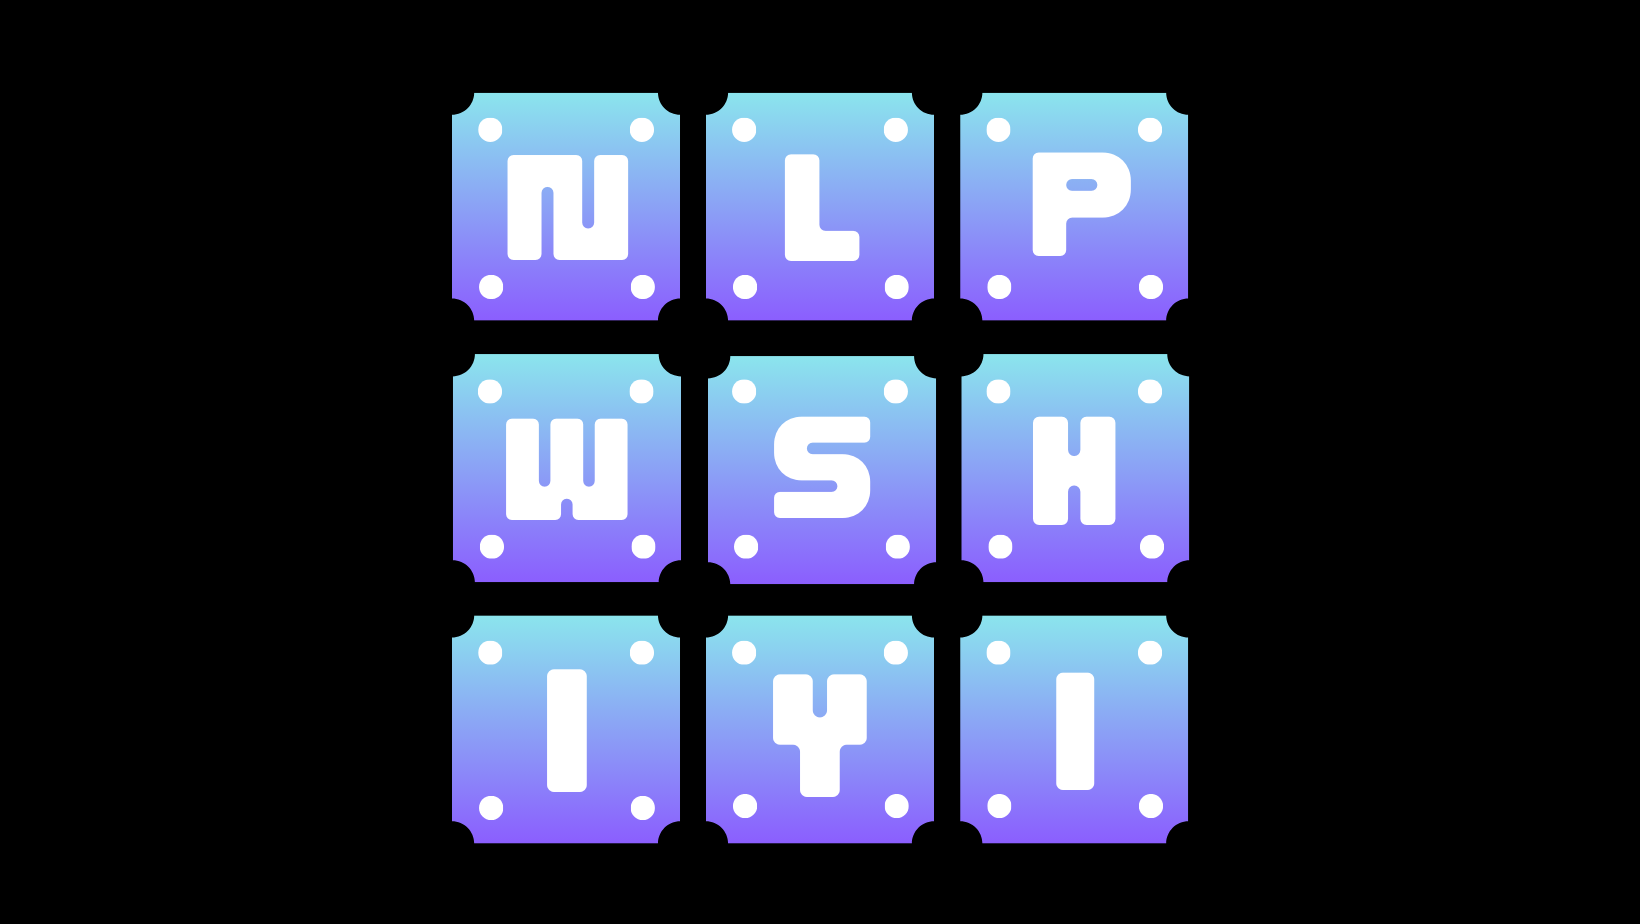
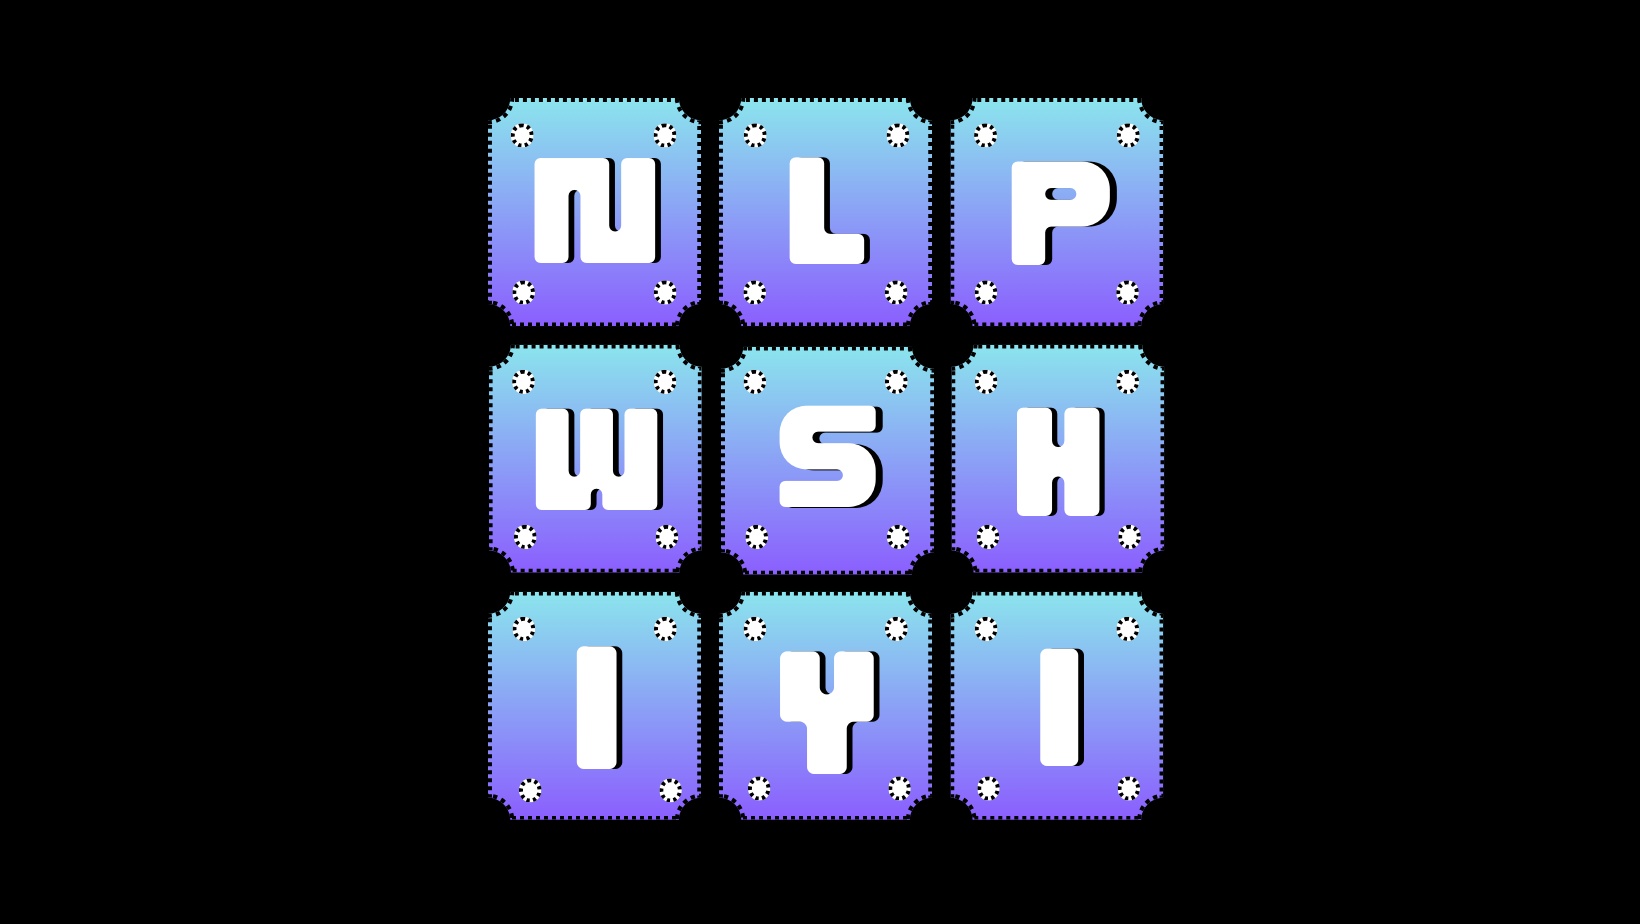
Deploying to main from  @ 3b16c6b58aeac6367cc86f3bc6c4f4b065f37cce 🚀

Changed region(s): [[0.2488, 0.0909, 0.7463, 0.9394], [0.4976, 0.1818, 0.5287, 0.303]]

diff --git a/index.html b/index.html
@@ -1,4 +1,4 @@
-<!doctype html> <html lang=en > <meta charset=UTF-8 > <meta name=viewport  content="width=device-width, initial-scale=1"> <link rel=stylesheet  href="/nlpwme/libs/highlight/styles/github.min.css"> <link rel=stylesheet  href="/nlpwme/css/franklin.css"> <link rel=stylesheet  href="https://fonts.googleapis.com/css?family=Source+Sans+Pro:400,700,400italic|Source+Code+Pro:400,700" type="text/css"> <link rel=stylesheet  href="/nlpwme/css/font-awesome.min.css"> <link rel=stylesheet  href="/nlpwme/css/celeste.min.css"> <link rel=icon  type="image/png" sizes=200x200  href="/nlpwme/assets/robot.png"> <link rel=icon  type="image/png" sizes=152x152  href="/nlpwme/assets/robot_smaller_152x152.png"> <link rel=icon  type="image/x-icon" sizes=64x64  href="/nlpwme/assets/robot_smaller_64x64.png"> <link rel=icon  type="image/x-icon" sizes=32x32  href="/nlpwme/assets/robot_smaller_32x32.png"> <link rel=icon  type="image/png" sizes=64x64  href="/nlpwme/assets/robot_smaller_64x64.png"> <link rel=icon  type="image/png" sizes=32x32  href="/nlpwme/assets/robot_smaller_32x32.png"> <title>NLPwShiyi - Natural Language Processing with Shiyi</title> <nav id=navbar  class=navigation  role=navigation > <input id=toggle1  type=checkbox  /> <label class=hamburger1  for=toggle1 > <div class=top ></div> <div class=meat ></div> <div class=bottom ></div> </label> <nav class="topnav mx-auto" id=myTopnav > <div class=dropdown > <button class=dropbtn >Comp Ling <i class="fa fa-caret-down"></i> </button> <div class=dropdown-content > <a href="/nlpwme/modules/1b-info-theory">Information Theory</a> <a href="/nlpwme/modules/1c-noisy-channel-model">The Noisy Channel Model</a> <a href="/nlpwme/modules/1d-finite-automata">FSAs and FSTs</a> <a href="/nlpwme/modules/1e-mutual-info">Mutual Information</a> <a href="/nlpwme/modules/1f-cky-algorithm">CKY Algorithm</a> <a href="/nlpwme/modules/1g-viterbi">Viterbi Algorithm</a> <a href="/nlpwme/modules/2b-markov-processes">Markov Processes</a> <a href="/nlpwme/modules/1h-semantics">Logic and Problem Solving</a> <a href="/nlpwme/modules/1j-bayesian">Bayesian Inference</a> </div> </div> <div class=dropdown > <button class=dropbtn  >ML / DL <i class="fa fa-caret-down"></i> </button> <div class=dropdown-content > <a href="/nlpwme/modules/2e-jax">Jacobian Matrices Derivation</a> <a href="/nlpwme/modules/2d-automatic-differentiation">Automatic Differentiation</a> <a href="/nlpwme/modules/2f-loss-functions">Stochastic GD</a> <a href="/nlpwme/modules/2c-word2vec">Word2Vec</a> <a href="/nlpwme/modules/2g-batchnorm">Batchnorm</a> <a href="/nlpwme/modules/2j-perplexity">Perplexity</a> <a href="/nlpwme/modules/2h-dropout">Dropout</a> <a href="/nlpwme/modules/2i-depth">Depth: Pros and Cons</a> <a href="/nlpwme/modules/2k-VAE">Variational Autoencoders</a> <a href="/nlpwme/modules/2l-dnns">DNNs(RNNs, CNNs, (Bi)-LSTM)</a> </div> </div> <a href="/nlpwme/" class=active >Intro </a> <div class=dropdown > <button class=dropbtn  >SOTA <i class="fa fa-caret-down"></i> </button> <div class=dropdown-content > <a href="/nlpwme/modules/3a-transformers"> GPT (Generative Pre-trained Transformer) </a> <a href="/nlpwme/modules/3b-xlnet"> XLNet (Generalized Autoregressive Pretraining) </a> <a href="/nlpwme/modules/3c-roberta"> RoBERTa (Robustly optimized BERT approach) </a> <a href="/nlpwme/modules/3d-t5"> T5 (Text-to-Text Transfer Transformer) </a> <a href="/nlpwme/modules/3e-clip"> CLIP (Contrastive Language-Image Pre-training) </a> </div> </div> <div class=dropdown > <button class=dropbtn  >Hands-on <i class="fa fa-caret-down"></i> </button> <div class=dropdown-content > <a href="/nlpwme/modules/4a-mlp-from-scratch">MLP from Scratch</a> <a href="/nlpwme/modules/4b-generative-adversarial-networks">GAN Example </a> <a href="/nlpwme/modules/4c-vae-mnist">VAE for MNIST</a> <a href="/nlpwme/modules/4d-bi-lstm-crf">BI-LSTM-CRF Seq2Seq</a> <a href="/nlpwme/modules/4e-c4fe-tbip">Measuring Subjectivity with VAE</a> <a href="/nlpwme/modules/4g-etl-job">Serverless ETL Example</a> <a href="/nlpwme/modules/4h-ocr-data-aug">OCR Text Augmentation</a> <a href="/nlpwme/modules/4i-neo4j-gql">Neo4j GQL Example</a> </div> </div> </nav> </nav> <script src="../assets/js/custom.js"></script> <div class=franklin-content ><p><img src="./assets/nlpwme3.jpg" alt=intro  /></p> <h1 id=understanding_natural_language_processing_with_me ><a href="#understanding_natural_language_processing_with_me" class=header-anchor >Understanding Natural Language Processing with Me&#33;</a></h1> <p>Hi, I’m Shiyi. Welcome to my technical blog. Please check out this <a href="https://shiyis.github.io/nlp-docs">page</a> for a more detailed account of my journey with respect to learning Natural Language Processing. Here I will only be documenting the gists. I will be presenting everything I have learned so far, including important concepts, necessary code snippets, and more. I am by no means an expert in this subject, but I have gone through extensive studies and training in the fields and subfields related to have a good grasp of what’s important.</p> <p>Areas that I have dabbled in,</p> <pre><code class="julia hljs">→ General Linguistics
+<!doctype html> <html lang=en > <meta charset=UTF-8 > <meta name=viewport  content="width=device-width, initial-scale=1"> <link rel=stylesheet  href="/nlpwme/libs/highlight/styles/github.min.css"> <link rel=stylesheet  href="/nlpwme/css/franklin.css"> <link rel=stylesheet  href="https://fonts.googleapis.com/css?family=Source+Sans+Pro:400,700,400italic|Source+Code+Pro:400,700" type="text/css"> <link rel=stylesheet  href="/nlpwme/css/font-awesome.min.css"> <link rel=stylesheet  href="/nlpwme/css/celeste.min.css"> <link rel=icon  type="image/png" sizes=200x200  href="/nlpwme/assets/robot.png"> <link rel=icon  type="image/png" sizes=152x152  href="/nlpwme/assets/robot_smaller_152x152.png"> <link rel=icon  type="image/x-icon" sizes=64x64  href="/nlpwme/assets/robot_smaller_64x64.png"> <link rel=icon  type="image/x-icon" sizes=32x32  href="/nlpwme/assets/robot_smaller_32x32.png"> <link rel=icon  type="image/png" sizes=64x64  href="/nlpwme/assets/robot_smaller_64x64.png"> <link rel=icon  type="image/png" sizes=32x32  href="/nlpwme/assets/robot_smaller_32x32.png"> <title>NLPwShiyi - Natural Language Processing with Shiyi</title> <nav id=navbar  class=navigation  role=navigation > <input id=toggle1  type=checkbox  /> <label class=hamburger1  for=toggle1 > <div class=top ></div> <div class=meat ></div> <div class=bottom ></div> </label> <nav class="topnav mx-auto" id=myTopnav > <div class=dropdown > <button class=dropbtn >Comp Ling <i class="fa fa-caret-down"></i> </button> <div class=dropdown-content > <a href="/nlpwme/modules/1b-info-theory">Information Theory</a> <a href="/nlpwme/modules/1c-noisy-channel-model">The Noisy Channel Model</a> <a href="/nlpwme/modules/1d-finite-automata">FSAs and FSTs</a> <a href="/nlpwme/modules/1e-mutual-info">Mutual Information</a> <a href="/nlpwme/modules/1f-cky-algorithm">CKY Algorithm</a> <a href="/nlpwme/modules/1g-viterbi">Viterbi Algorithm</a> <a href="/nlpwme/modules/2b-markov-processes">Markov Processes</a> <a href="/nlpwme/modules/1h-semantics">Logic and Problem Solving</a> <a href="/nlpwme/modules/1j-bayesian">Bayesian Inference</a> </div> </div> <div class=dropdown > <button class=dropbtn  >ML / DL <i class="fa fa-caret-down"></i> </button> <div class=dropdown-content > <a href="/nlpwme/modules/2e-jax">Jacobian Matrices Derivation</a> <a href="/nlpwme/modules/2d-automatic-differentiation">Automatic Differentiation</a> <a href="/nlpwme/modules/2f-loss-functions">Stochastic GD</a> <a href="/nlpwme/modules/2c-word2vec">Word2Vec</a> <a href="/nlpwme/modules/2g-batchnorm">Batchnorm</a> <a href="/nlpwme/modules/2j-perplexity">Perplexity</a> <a href="/nlpwme/modules/2h-dropout">Dropout</a> <a href="/nlpwme/modules/2i-depth">Depth: Pros and Cons</a> <a href="/nlpwme/modules/2k-VAE">Variational Autoencoders</a> <a href="/nlpwme/modules/2l-dnns">DNNs(RNNs, CNNs, (Bi)-LSTM)</a> </div> </div> <a href="/nlpwme/" class=active >Intro </a> <div class=dropdown > <button class=dropbtn  >SOTA <i class="fa fa-caret-down"></i> </button> <div class=dropdown-content > <a href="/nlpwme/modules/3a-transformers"> GPT (Generative Pre-trained Transformer) </a> <a href="/nlpwme/modules/3b-xlnet"> XLNet (Generalized Autoregressive Pretraining) </a> <a href="/nlpwme/modules/3c-roberta"> RoBERTa (Robustly optimized BERT approach) </a> <a href="/nlpwme/modules/3d-t5"> T5 (Text-to-Text Transfer Transformer) </a> <a href="/nlpwme/modules/3e-clip"> CLIP (Contrastive Language-Image Pre-training) </a> </div> </div> <div class=dropdown > <button class=dropbtn  >Hands-on <i class="fa fa-caret-down"></i> </button> <div class=dropdown-content > <a href="/nlpwme/modules/4a-mlp-from-scratch">MLP from Scratch</a> <a href="/nlpwme/modules/4b-generative-adversarial-networks">GAN Example </a> <a href="/nlpwme/modules/4c-vae-mnist">VAE for MNIST</a> <a href="/nlpwme/modules/4d-bi-lstm-crf">BI-LSTM-CRF Seq2Seq</a> <a href="/nlpwme/modules/4e-c4fe-tbip">Measuring Subjectivity with VAE</a> <a href="/nlpwme/modules/4g-etl-job">Serverless ETL Example</a> <a href="/nlpwme/modules/4h-ocr-data-aug">OCR Text Augmentation</a> <a href="/nlpwme/modules/4i-neo4j-gql">Neo4j GQL Example</a> </div> </div> </nav> </nav> <script src="../assets/js/custom.js"></script> <div class=franklin-content ><p><img src="./assets/nlpwme4.jpg" alt=intro  /></p> <h1 id=understanding_natural_language_processing_with_me ><a href="#understanding_natural_language_processing_with_me" class=header-anchor >Understanding Natural Language Processing with Me&#33;</a></h1> <p>Hi, I’m Shiyi. Welcome to my technical blog. Please check out this <a href="https://shiyis.github.io/nlp-docs">page</a> for a more detailed account of my journey with respect to learning Natural Language Processing. Here I will only be documenting the gists. I will be presenting everything I have learned so far, including important concepts, necessary code snippets, and more. I am by no means an expert in this subject, but I have gone through extensive studies and training in the fields and subfields related to have a good grasp of what’s important.</p> <p>Areas that I have dabbled in,</p> <pre><code class="julia hljs">→ General Linguistics
 → Symbolic Computational Linguistics
 → Statistical Natural Language Processing
 → State of the Art Large Language Modeling</code></pre> <h3 id=the_subject_matter ><a href="#the_subject_matter" class=header-anchor ><strong>The Subject Matter</strong></a></h3> <p>What do we mean by Natural Language Processing? If we do a little googling and researching, it&#39;s very intuitive that natural language processing involves a set of solutions to various natural human language tasks. The most common ones are</p> <pre><code class="plaintext hljs">→ Sentiment analysis
